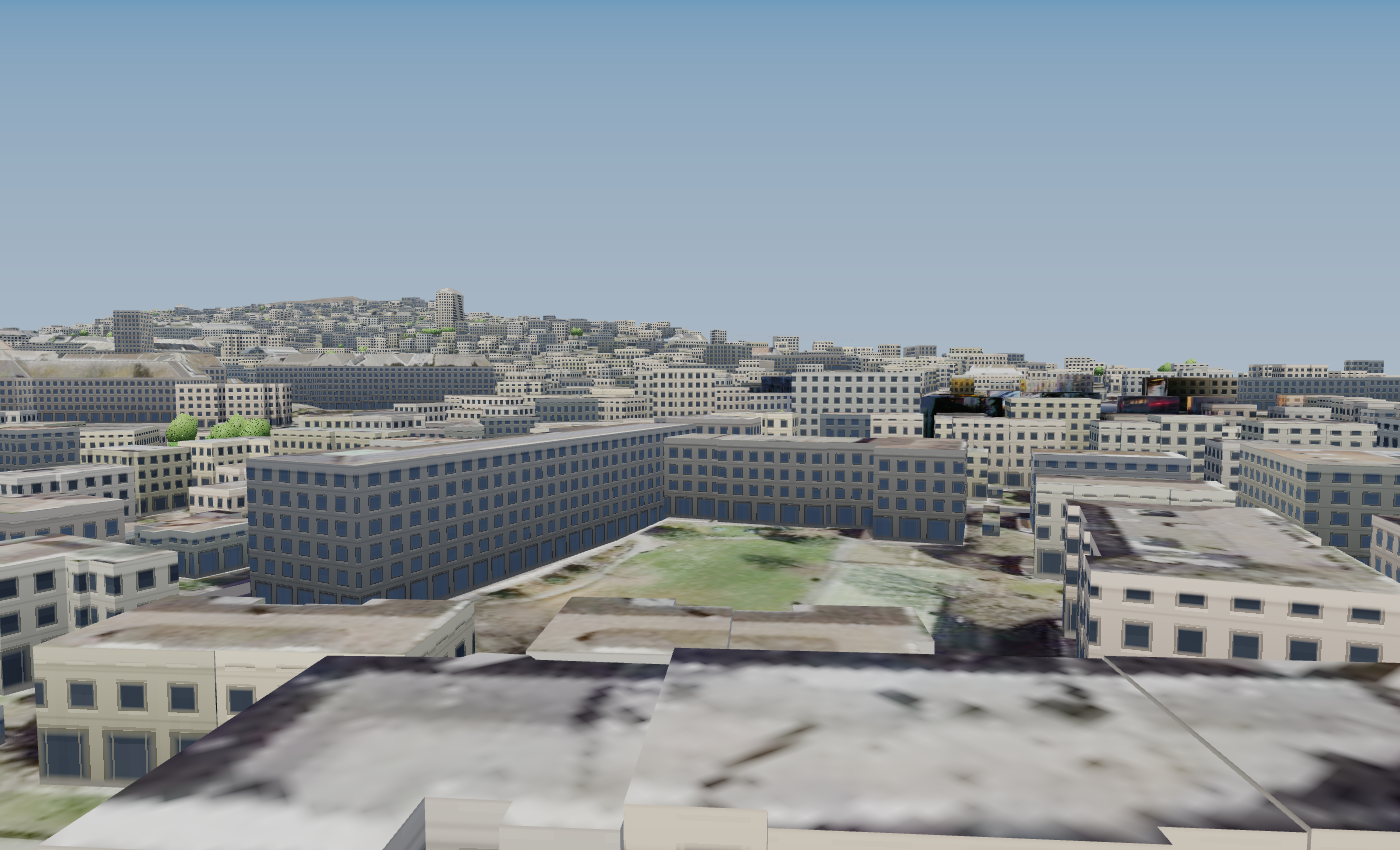
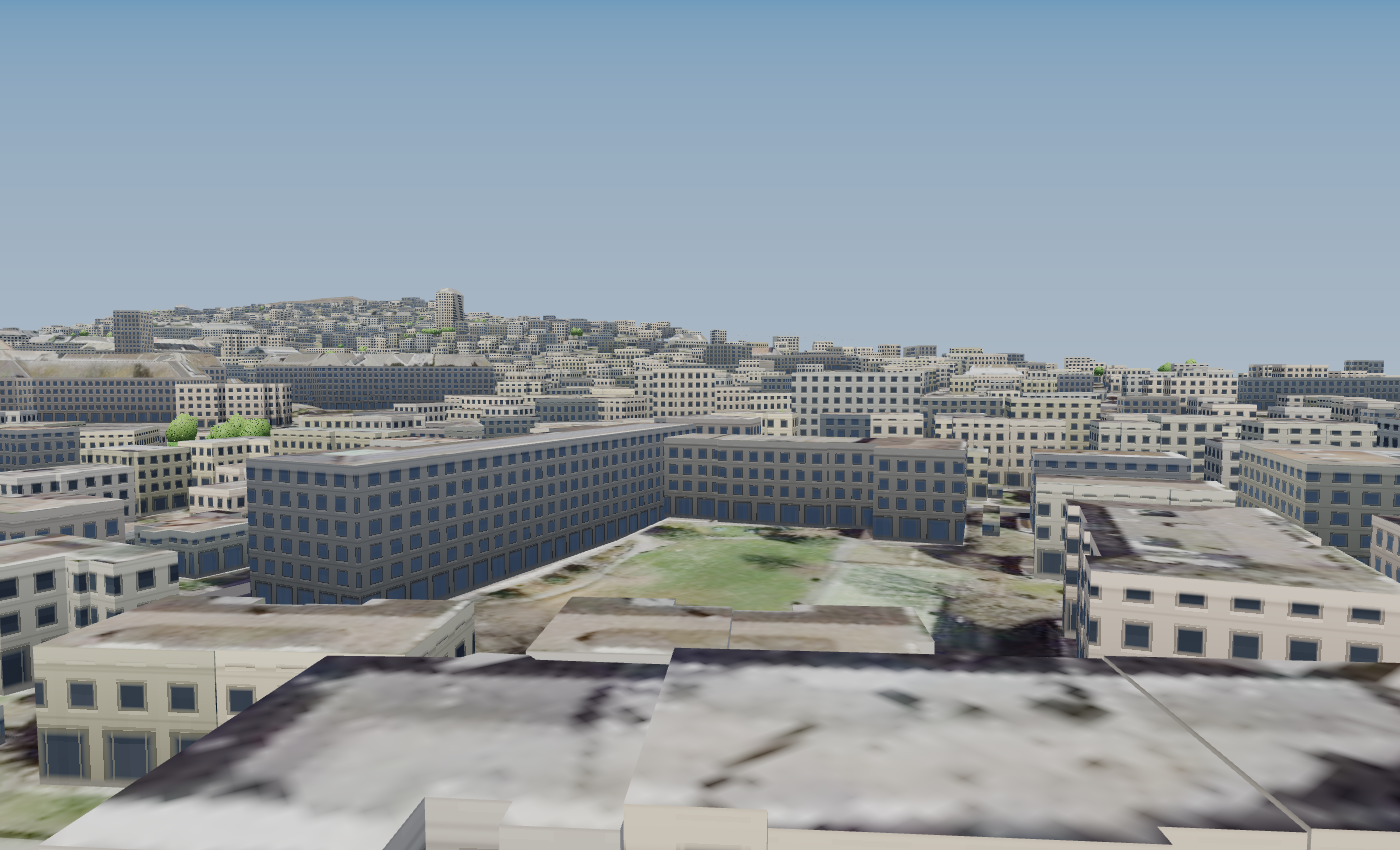
The photograph is the geometry: panoramas rendered as depth meshes
Fixes both symptoms directly. "Distorted" was a photograph stretched across
extruded boxes that are not where its content was. "Separate pictures" was two
such projections crossfading, each wrong in a different way, so the seam between
them moved as the camera did. Neither is a shading problem and neither could be
tuned away.

Each panorama is now its own mesh: a 384x192 grid where every vertex sits at the
distance the depth pass measured, transformed into the world by the panorama's
own pose. A tree becomes a tree-shaped piece of the world rather than a tree
painted on the wall behind it. 44 meshes, 5.0M triangles, built in 1 s.

Inside a panorama's coverage the modelled city is not drawn at all. Drawing both
puts extruded boxes through the middle of the photograph -- they occupy the same
space and disagree about what is there, which was most of what remained.

Two details that matter:

- Quads spanning a depth discontinuity are dropped. Without that a quad bridging
  a near railing and the building behind it becomes a rubber sheet stretched
  between them, which is the ugliest artifact this kind of mesh produces.
- The nadir is the capture vehicle, which the depth pass rejects, leaving a hole
  straight down and a white ring around the driver. Floored with geometry on the
  road plane, flagged as asphalt so it renders as road rather than as a
  photograph of a bonnet.

Depth for all 44 panoramas is written beside them as 16-bit PNG centimetres.
[…]

Changed region(s): [[0.645, 0.4282, 0.9214, 0.52], [0.5221, 0.4282, 0.5836, 0.4894]]

diff --git a/swift/zurichview/Sources/zurichview/PanoMesh.swift b/swift/zurichview/Sources/zurichview/PanoMesh.swift
@@ -1,0 +1,159 @@
+import Foundation
+import CoreGraphics
+import ImageIO
+import simd
+
+/// A panorama turned into geometry by its own depth.
+///
+/// This replaces projecting photographs onto the city model, and it is the fix
+/// for both things that approach gets wrong. "Distorted" was a photograph
+/// stretched across boxes that are not where its content was. "Separate
+/// pictures" was two such projections crossfading, each wrong in a different
+/// way, so the seam between them moved as you did.
+///
+/// Here the geometry *is* the photograph: every pixel sits at the distance it
+/// was measured at, so a tree is a tree-shaped piece of the world rather than a
+/// tree painted on a wall behind it, and moving the camera produces real
+/// parallax instead of a dissolve.
+///
+/// Imagery © Mapillary contributors, CC-BY-SA.
+extension WorldMesh {
+
+    /// Grid resolution across the panorama. 384x192 is about 73k vertices per
+    /// panorama; finer looks better standing still and costs memory that 44 of
+    /// them cannot spare.
+    /// Camera height above the road, matching the depth pass.
+    private static var CAMERA_HEIGHT_M: Double { 2.2 }
+
+    private static var gridW: Int { 384 }
+    private static var gridH: Int { 192 }
+
+    @discardableResult
+    func buildPanoMeshes(indexURL: URL) -> Int {
+        guard let data = try? Data(contentsOf: indexURL),
+              let file = try? JSONDecoder().decode(Panoramas.JSONFile.self, from: data)
+        else { return 0 }
+        let dir = indexURL.deletingLastPathComponent().appendingPathComponent("panoramas")
+        let ordered = file.panoramas.sorted { $0.index < $1.index }
+
+        var ranges: [Range<Int>] = []
+        var built = 0
+        for (slice, pano) in ordered.enumerated() {
+            let depthURL = dir.appendingPathComponent(
+                (pano.file as NSString).deletingPathExtension + "_depth.png")
+            guard pano.pos.count == 3, pano.R.count == 9,
+                  let depth = Self.loadDepth(depthURL) else {
+                ranges.append(0..<0)
+                continue
+            }
+            let start = indices.count
+            addPanoMesh(depth: depth, pos: pano.pos, R: pano.R, layer: Float(slice))
+            ranges.append(start..<indices.count)
+            built += 1
+        }
+        setPanoMeshRanges(ranges)
+        return built
+    }
+
+    // MARK: - Mesh
+
+    private func addPanoMesh(depth: (w: Int, h: Int, cm: [UInt16]),
+                             pos: [Double], R: [Double], layer: Float) {
+        let gw = Self.gridW, gh = Self.gridH
+        let origin = SIMD3<Double>(pos[0], pos[1], pos[2])
+
+        // The exported matrix maps world ENU to camera. Going the other way is
+        // its transpose, since a rotation's inverse is its transpose.
+        let rt = simd_double3x3(rows: [
+            SIMD3(R[0], R[3], R[6]),
+            SIMD3(R[1], R[4], R[7]),
+            SIMD3(R[2], R[5], R[8]),
+        ])
+
+        let base = UInt32(vertices.count)
+        var metres = [Double](repeating: 0, count: gw * gh)
+
+        for j in 0..<gh {
+            let v = (Double(j) + 0.5) / Double(gh)
+            let lat = Double.pi / 2 - v * Double.pi
+            for i in 0..<gw {
+                let u = (Double(i) + 0.5) / Double(gw)
+                let lon = u * 2 * Double.pi - Double.pi
+
+                let cam = SIMD3(cos(lat) * sin(lon), -sin(lat), cos(lat) * cos(lon))
+                // Camera frame back to ENU, then ENU to our world axes: X east,
+                // Y up, Z south.
+                let enu = rt * cam
+                let dir = SIMD3(enu.x, enu.z, -enu.y)
+
+                let sx = min(depth.w - 1, Int(u * Double(depth.w)))
+                let sy = min(depth.h - 1, Int(v * Double(depth.h)))
+                var d = Double(depth.cm[sy * depth.w + sx]) / 100.0
+
+                // The nadir is the capture vehicle, and the depth pass rejects
+                // it — leaving a hole straight down through which the clear
+                // colour shows as a white ring around the driver. Floor it with
+                // the road instead: geometry on the ground plane, flagged so it
+                // renders as asphalt rather than as a photograph of a bonnet.
+                let down = -dir.y
+                var isFloor = false
+                if down > 0.42 {
+                    d = Self.CAMERA_HEIGHT_M / max(down, 1e-3)
+                    isFloor = true
+                }
+                metres[j * gw + i] = d
+
+                let p = origin + dir * (d > 0 ? d : 1000.0)
+                vertices.append(Vertex(
+                    position: SIMD3(Float(p.x), Float(p.y), Float(p.z)),
+                    normal: isFloor ? SIMD3(0, 1, 0)
+                                    : SIMD3(Float(-dir.x), Float(-dir.y), Float(-dir.z)),
+                    colour: isFloor ? SIMD3(0.20, 0.20, 0.215) : SIMD3(1, 1, 1),
+                    material: isFloor ? .road : .panoMesh,
+                    params: SIMD4(Float(u), Float(v), layer, Float(d))))
+            }
+        }
+
+        for j in 0..<(gh - 1) {
+            for i in 0..<gw {
+                let i1 = (i + 1) % gw            // wrap: a panorama is a cylinder
+                let a = j * gw + i, b = j * gw + i1
+                let c = (j + 1) * gw + i, e = (j + 1) * gw + i1
+                let quad = [metres[a], metres[b], metres[c], metres[e]]
+
+                // Sky, and anything the depth pass rejected, is not a surface.
+                if quad.contains(where: { $0 <= 0.01 }) { continue }
+
+                // Do not stitch across a depth discontinuity. A quad spanning a
+                // near railing and the building behind it would otherwise become
+                // a rubber sheet stretched between them, which is the single
+                // ugliest artifact this kind of mesh produces.
+                let lo = quad.min()!, hi = quad.max()!
+                if hi > lo * 1.22 && hi - lo > 0.9 { continue }
+
+                indices += [base + UInt32(a), base + UInt32(c), base + UInt32(b),
+                            base + UInt32(b), base + UInt32(c), base + UInt32(e)]
+            }
+        }
+    }
+
+    // MARK: - Depth
+
+    private static func loadDepth(_ url: URL) -> (w: Int, h: Int, cm: [UInt16])? {
+        guard let src = CGImageSourceCreateWithURL(url as CFURL, nil),
+              let img = CGImageSourceCreateImageAtIndex(src, 0, nil) else { return nil }
+        let w = img.width, h = img.height
+        var buf = [UInt16](repeating: 0, count: w * h)
+        let ok = buf.withUnsafeMutableBytes { raw -> Bool in
+            guard let ctx = CGContext(
+                data: raw.baseAddress, width: w, height: h,
+                bitsPerComponent: 16, bytesPerRow: w * 2,
+                space: CGColorSpaceCreateDeviceGray(),
+                bitmapInfo: CGImageAlphaInfo.none.rawValue
+                    | CGBitmapInfo.byteOrder16Little.rawValue) else { return false }
+            ctx.draw(img, in: CGRect(x: 0, y: 0, width: w, height: h))
+            return true
+        }
+        return ok ? (w, h, buf) : nil
+    }
+}

diff --git a/swift/zurichview/Sources/zurichview/Renderer.swift b/swift/zurichview/Sources/zurichview/Renderer.swift
@@ -47,6 +47,8 @@ final class Renderer {
     private let indexBuffer: MTLBuffer
     private let indexCount: Int
     private let shadowCasterRange: Range<Int>
+    private let staticIndexCount: Int
+    private let panoMeshRanges: [Range<Int>]
     private var ortho: Ortho?
     private var materials: Materials?
     private var facadeAtlas: MTLTexture?
@@ -144,6 +146,10 @@ final class Renderer {
         // pure self-shadowing acne — it turned every road pitch black — and a
         // level city gains nothing from terrain casting onto terrain.
         shadowCasterRange = mesh.buildingRange
+        panoMeshRanges = mesh.panoMeshRanges
+        // Panorama meshes live at the end of the buffer and are drawn one at a
+        // time; 44 overlapping copies of the same street would fight otherwise.
+        staticIndexCount = mesh.panoMeshRanges.compactMap(\.first).min() ?? mesh.indices.count
 
         let sd2 = MTLSamplerDescriptor()
         sd2.minFilter = .linear
@@ -302,9 +308,31 @@ final class Renderer {
         enc.setFragmentTexture(panoramas?.texture, index: 6)
         enc.setFragmentSamplerState(sampler, index: 0)
         enc.setFragmentSamplerState(shadowSampler, index: 1)
-        enc.drawIndexedPrimitives(type: .triangle, indexCount: indexCount,
-                                  indexType: .uint32, indexBuffer: indexBuffer,
-                                  indexBufferOffset: 0)
+        // Inside a panorama's coverage the photograph *is* the scene, so the
+        // modelled city is not drawn at all. Drawing both puts extruded boxes
+        // through the middle of the photograph — they occupy the same space and
+        // disagree about what is there, which is most of what "separate pictures
+        // and distorted" was.
+        var photographed: Range<Int>? = nil
+        if let p = panoramas, !panoMeshRanges.isEmpty {
+            let pick = p.nearest(to: camera.eye)
+            if pick.a < panoMeshRanges.count {
+                let near = simd_distance(p.poses[pick.a].position, camera.eye)
+                let r = panoMeshRanges[pick.a]
+                if !r.isEmpty && near < 45 { photographed = r }
+            }
+        }
+
+        if let r = photographed {
+            enc.drawIndexedPrimitives(
+                type: .triangle, indexCount: r.count,
+                indexType: .uint32, indexBuffer: indexBuffer,
+                indexBufferOffset: r.lowerBound * MemoryLayout<UInt32>.stride)
+        } else {
+            enc.drawIndexedPrimitives(type: .triangle, indexCount: staticIndexCount,
+                                      indexType: .uint32, indexBuffer: indexBuffer,
+                                      indexBufferOffset: 0)
+        }
         enc.endEncoding()
     }
 
@@ -674,6 +702,11 @@ final class Renderer {
                 albedo = albedo * (tex / lum);
             }
             albedo = facade(albedo, in.world, n, in.params, viewDir, u, gloss);
+        } else if (in.material > 6.5) {
+            // The panorama as geometry. It carries the light of the moment it
+            // was taken, so it is shown as photographed rather than relit.
+            albedo = panos.sample(orthoSampler, in.params.xy, uint(in.params.z)).rgb;
+            photographic = 1.0;
         } else if (in.material > 5.5) {
             // Photographic façade. The plate already contains the building's own
             // shading from the day it was photographed, so it is lit only
@@ -754,7 +787,7 @@ final class Renderer {
         // Projective texturing. Where a panorama covers this point, it replaces
         // everything procedural: it is a photograph of the actual place, at full
         // resolution, and no reconstruction stands between it and the screen.
-        if (u.panoParams.y > 0.5) {
+        if (false) {
             float da = length(in.world - u.panoA.xyz);
             float db = length(in.world - u.panoB.xyz);
             float near = min(da, db);

diff --git a/swift/zurichview/Sources/zurichview/WorldMesh.swift b/swift/zurichview/Sources/zurichview/WorldMesh.swift
@@ -27,6 +27,7 @@ struct Vertex {
         case foliage = 4    // tree canopy
         case road = 5       // carriageway — gets asphalt treatment
         case plate = 6      // photographic façade from street imagery
+        case panoMesh = 7   // panorama rendered as its own depth geometry
     }
 
     init(position: SIMD3<Float>, normal: SIMD3<Float>,
@@ -50,6 +51,7 @@ final class WorldMesh {
     private(set) var buildingRange: Range<Int> = 0..<0
     private(set) var streetscapeRange: Range<Int> = 0..<0
     private(set) var plateRange: Range<Int> = 0..<0
+    private(set) var panoMeshRanges: [Range<Int>] = []
 
     private let terrain: TerrainGrid
     private var storedEdges: [WorldJSON.Edge] = []
@@ -314,6 +316,7 @@ final class WorldMesh {
 
     func setStreetscapeRange(_ r: Range<Int>) { streetscapeRange = r }
     func setPlateRange(_ r: Range<Int>) { plateRange = r }
+    func setPanoMeshRanges(_ r: [Range<Int>]) { panoMeshRanges = r }
     var roadEdgesForPavement: [WorldJSON.Edge] { storedEdges }
 }
 

diff --git a/swift/zurichview/Sources/zurichview/main.swift b/swift/zurichview/Sources/zurichview/main.swift
@@ -50,6 +50,12 @@ print("  total \(mesh.indices.count / 3) triangles")
 // their own camera pose are a different thing: one photograph, at full
 // resolution, with no reconstruction between it and the screen.
 
+clock = Date()
+let panoMeshes = mesh.buildPanoMeshes(indexURL: locate("panoramas.json"))
+print(String(format: "Panorama meshes: %d built in %.2f s (%d triangles)",
+             panoMeshes, -clock.timeIntervalSinceNow,
+             mesh.panoMeshRanges.reduce(0) { $0 + $1.count } / 3))
+
 let network = try RoadNetwork(contentsOf: worldURL)
 let renderer = try Renderer(mesh: mesh)
 clock = Date()

diff --git a/tools/pano_depth.py b/tools/pano_depth.py
@@ -240,8 +240,43 @@ def run_one() -> int:
     return 0
 
 
+def run_all() -> int:
+    """Depth for every panorama, written beside it as a 16-bit PNG in centimetres.
+
+    16-bit because 8 would quantise a 60 m street into 24 cm steps, and that
+    shows as terracing on any surface you drive past slowly.
+    """
+    index = json.loads((DATA / "panoramas.json").read_text())
+    panos = sorted(index["panoramas"], key=lambda p: p["index"])
+    world = json.loads((DATA / "zurich_world.json").read_text())
+    made = 0
+    for i, pano in enumerate(panos):
+        src = PANOS / pano["file"]
+        dst = src.with_name(src.stem + "_depth.png")
+        if dst.exists():
+            continue
+        rgb = np.asarray(Image.open(src).convert("RGB"))
+        fitted = panorama_depth(rgb, origin=tuple(pano["pos"]),
+                                terrain=world["terrain"])
+        if fitted is None:
+            print(f"    ! {src.name}: no depth", file=sys.stderr)
+            continue
+        depth, solid, _, _ = fitted
+        cm = np.zeros(depth.shape, np.uint16)
+        cm[solid] = np.clip(depth[solid] * 100.0, 1, 65535).astype(np.uint16)
+        Image.fromarray(cm).save(dst)
+        made += 1
+        if (i + 1) % 10 == 0:
+            print(f"    {i + 1}/{len(panos)}", flush=True)
+    print(f"  wrote {made} depth maps")
+    return 0
+
+
 if __name__ == "__main__":
     ap = argparse.ArgumentParser()
     ap.add_argument("--one", action="store_true")
+    ap.add_argument("--all", action="store_true")
     args = ap.parse_args()
+    if args.all:
+        raise SystemExit(run_all())
     raise SystemExit(run_one() if args.one else (ap.print_help() or 0))
